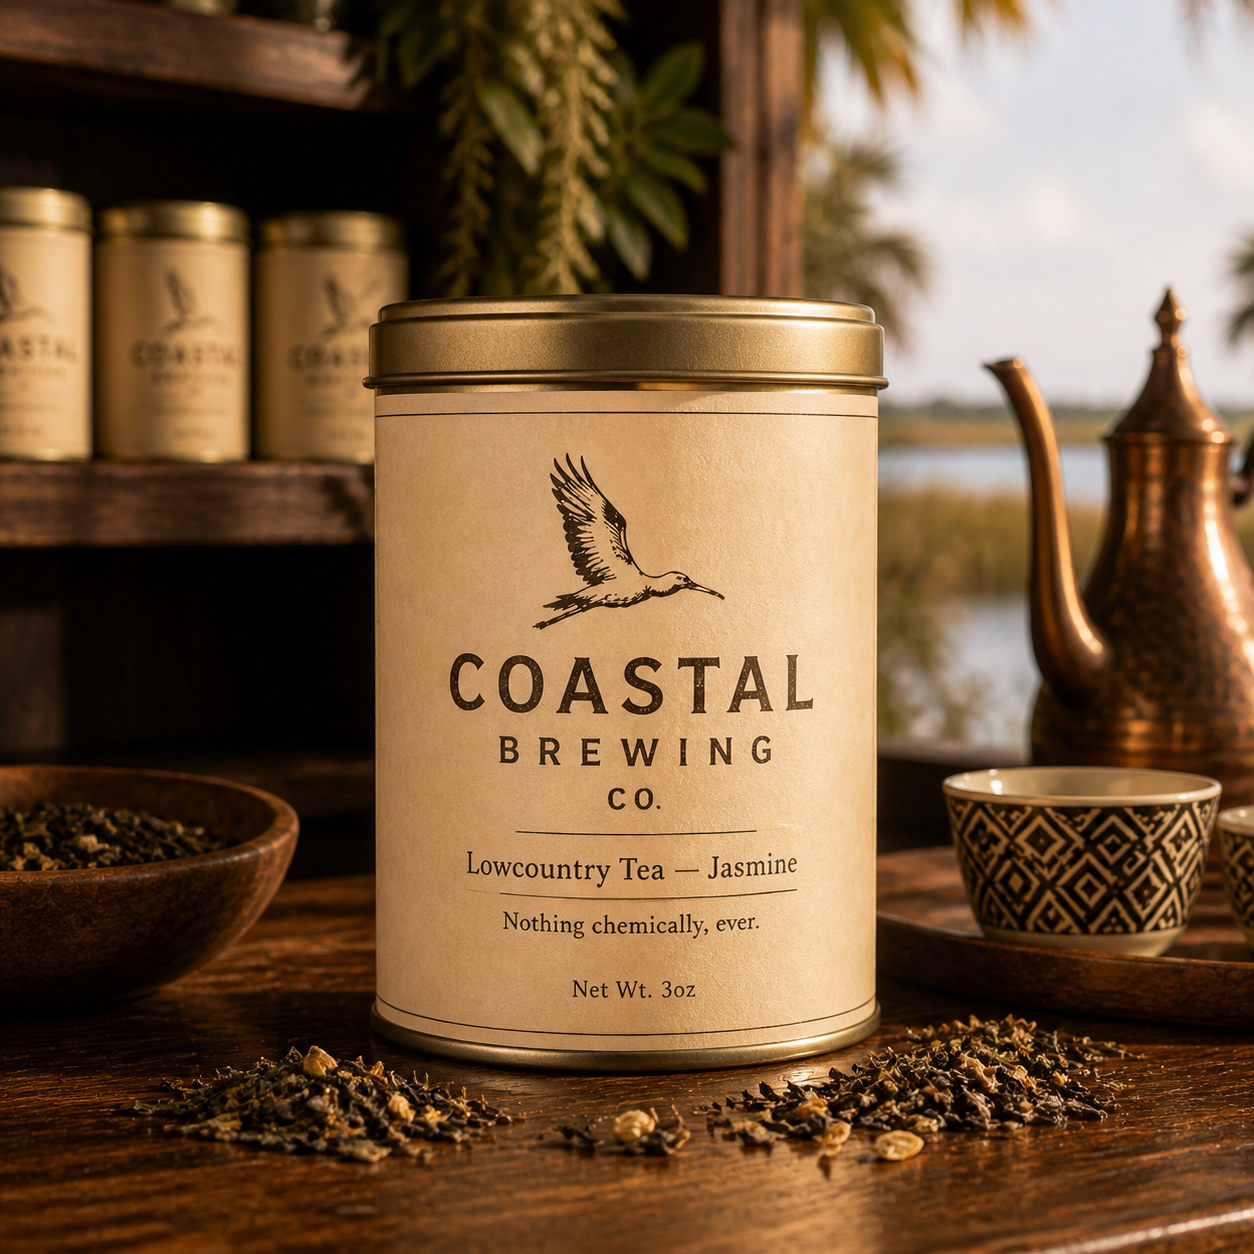
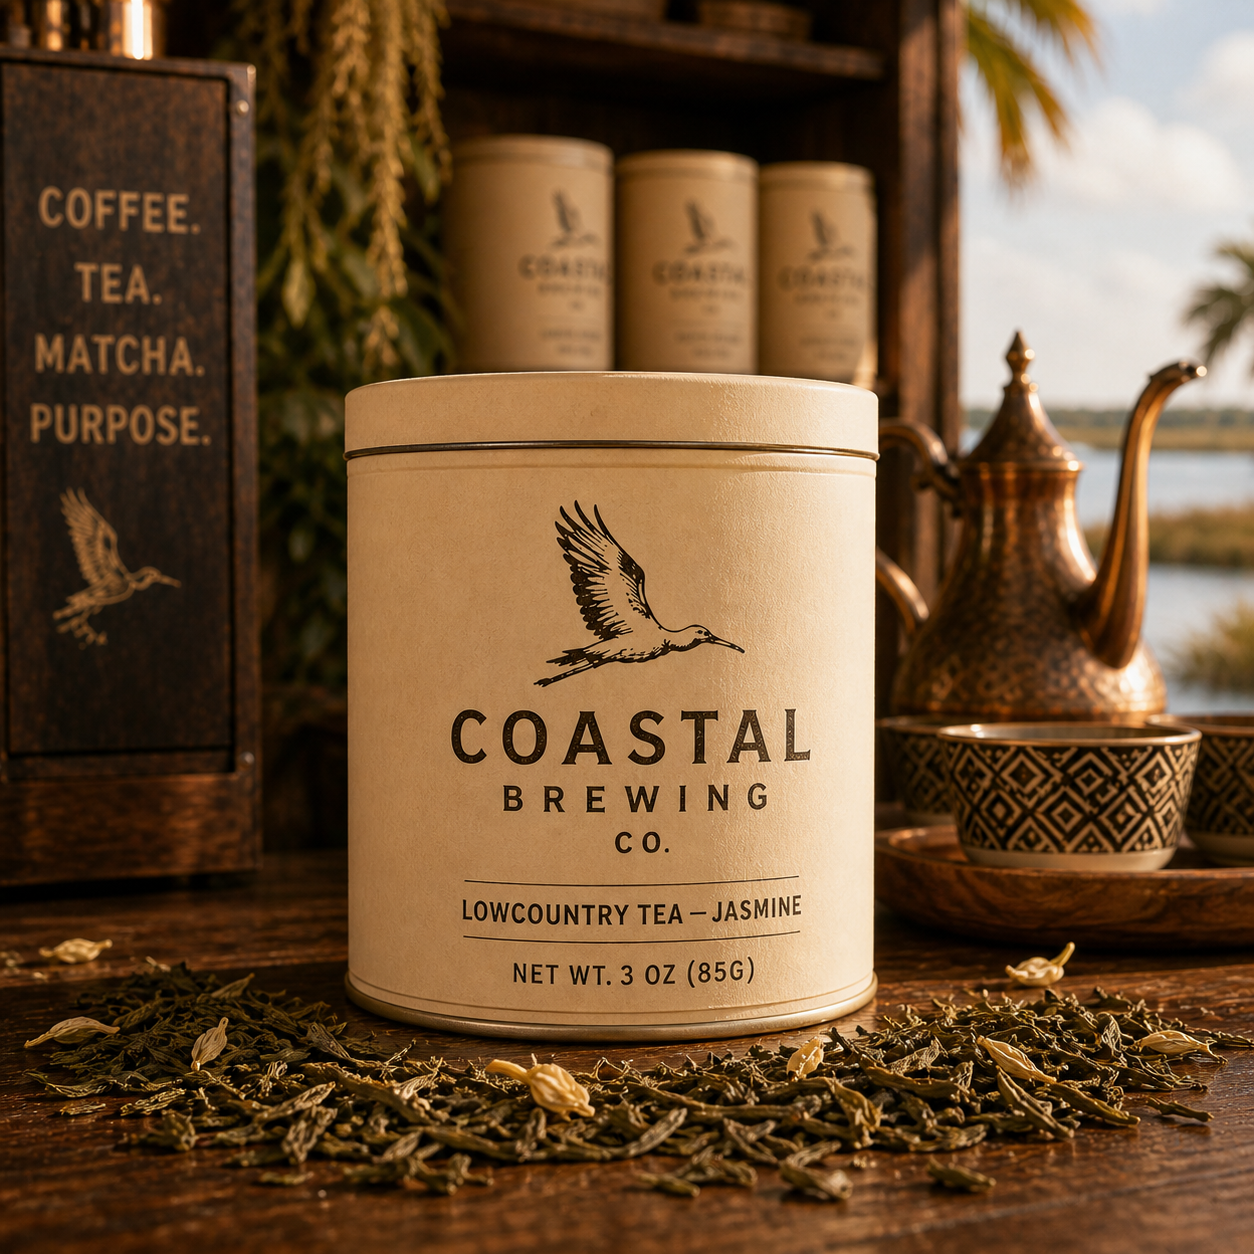
chore(coastal): commit remaining scripts and product assets

diff --git a/coastal-brewing/scripts/generate_product_images.py b/coastal-brewing/scripts/generate_product_images.py
@@ -85,19 +85,24 @@ BRAND_PREFIX = (
     "Carolina coffee + tea + matcha brand. MATCH THE REFERENCE IMAGE EXACTLY "
     "— same outdoor Lowcountry coastal setting (lakefront or marsh visible in "
     "background), same warm golden daylight (late-afternoon, soft, airy), "
-    "same kraft-paper bag form with wide cream-parchment label, same dark "
-    "wood bar or shelf the product sits on, same atmospheric props (palm "
-    "tree fronds, Spanish moss draping, copper pot, ceramic cup with diamond "
-    "pattern, scattered coffee beans, wooden bowl). The brand mark is a "
-    "FLYING STORK (wings up, vintage engraving style) in dark sepia ink — "
-    "NEVER a palm tree, NEVER any other icon. The product label uses "
-    "heavy-serif COASTAL / BREWING / CO. wordmark beneath the stork. Wooden "
-    "frame visible behind product reads 'COFFEE. TEA. MATCHA. PURPOSE.' with "
-    "a small carved stork. Background: Lowcountry lakefront or marsh, palm "
-    "trees, Spanish moss, soft warm sky. Tagline 'Nothing chemically, ever.' "
-    "may appear on the product label. Square 1:1 framing. Hero product "
-    "center-frame. Style is warm + premium + Lowcountry editorial — the "
-    "polar opposite of bright clinical white-bg e-commerce. Exact product:\n\n"
+    "same dark wood bar or shelf the product sits on, same atmospheric props "
+    "(palm tree fronds, Spanish moss draping, copper pot, ceramic cup with "
+    "diamond pattern, wooden bowl). The brand mark is a FLYING STORK (wings "
+    "up, vintage engraving style) in dark sepia ink — NEVER a palm tree, "
+    "NEVER any other icon. The product label uses heavy-serif COASTAL / "
+    "BREWING / CO. wordmark beneath the stork. Wooden frame visible behind "
+    "product reads 'COFFEE. TEA. MATCHA. PURPOSE.' with a small carved "
+    "stork. Background: Lowcountry lakefront or marsh, palm trees, Spanish "
+    "moss, soft warm sky. Tagline 'Nothing chemically, ever.' may appear on "
+    "the product label. Square 1:1 framing. Hero product center-frame. "
+    "Style is warm + premium + Lowcountry editorial — the polar opposite of "
+    "bright clinical white-bg e-commerce. The PACKAGING FORM and the "
+    "SCATTERED CONTENT on the table must match the actual product type "
+    "specified below — coffee bag with coffee beans for coffee, cylindrical "
+    "tin with loose tea leaves for tea, vivid bright-green matcha powder + "
+    "bamboo whisk for matcha, mushroom slices alongside the appropriate "
+    "scatter for functional blends. Never put coffee beans next to a tea "
+    "tin and vice versa. Exact product:\n\n"
 )
 
 
@@ -115,7 +120,50 @@ def _build_prompt(sku_id: str, p: dict) -> str:
     size = p.get("size", "")
     roast = p.get("roast_level", "")
 
-    if category in ("coffee", "flavored_coffee", "specialty_coffee", "functional"):
+    # Functional blends are coffee/tea/matcha + medicinal mushrooms in a
+    # kraft bag (owner directive 2026-05-05: all functional SKUs are bags,
+    # not tins). Detect the underlying base from the SKU id so the
+    # SCATTERED content on the table matches what's INSIDE the bag — coffee
+    # beans for coffee+mushroom, tea leaves for hojicha/tea+mushroom, vivid
+    # green matcha powder for matcha+mushroom — paired with a sliced
+    # lion's-mane / cordyceps / reishi mushroom cap on the table.
+    sku_lower = sku_id.lower()
+
+    if category == "functional":
+        if "matcha" in sku_lower:
+            scatter = (
+                "A small heap of vivid bright-green matcha powder spilled "
+                "from a wooden scoop next to the bag, plus a sliced "
+                "lion's-mane mushroom cap (white, shaggy, vintage-engraved "
+                "look) on the table. NO coffee beans visible."
+            )
+        elif "hojicha" in sku_lower or "tea" in sku_lower:
+            scatter = (
+                "Loose roasted hojicha-style brown tea leaves scattered "
+                "prominently on the dark wood at the base of the bag, "
+                "alongside a sliced cordyceps or reishi mushroom cap. NO "
+                "coffee beans visible — this is a tea-base blend."
+            )
+        else:
+            scatter = (
+                "A handful of glossy dark coffee beans scattered at the "
+                "base of the bag, alongside a sliced lion's-mane mushroom "
+                "cap (white, shaggy). The mushroom is the visual cue that "
+                "this is a functional / adaptogenic blend, not a regular "
+                "coffee bag."
+            )
+        bag_form = (
+            f"a kraft-paper coffee bag with tin-tie top sitting on a dark "
+            f"polished-wood bar. The bag's cream-parchment label is "
+            f"centered and shows the flying-stork mark above heavy-serif "
+            f"COASTAL / BREWING / CO. wordmark. Below the wordmark, the "
+            f"product name reads '{name}'"
+            f"{f', net wt {size}' if size else ''}"
+            f"{f' — {roast} roast' if roast else ''}"
+            f". {scatter} Behind the bag, more kraft bags are softly "
+            f"visible on dark wood shelves under amber Edison light."
+        )
+    elif category in ("coffee", "flavored_coffee", "specialty_coffee"):
         bag_form = (
             f"a kraft-paper coffee bag with tin-tie top, sitting on a dark "
             f"polished-wood bar. The bag's cream-parchment label is centered "
@@ -124,25 +172,36 @@ def _build_prompt(sku_id: str, p: dict) -> str:
             f"reads '{name}'"
             f"{f', net wt {size}' if size else ''}"
             f"{f' — {roast} roast' if roast else ''}"
-            f". Behind the bag, more kraft bags and cream metal tins are "
-            f"softly visible on dark wood shelves under amber Edison light."
+            f". A handful of glossy dark coffee beans is scattered "
+            f"prominently on the dark wood at the base of the bag — clearly "
+            f"COFFEE BEANS, not tea or other content. Behind the bag, more "
+            f"kraft coffee bags are softly visible on dark wood shelves "
+            f"under amber Edison light."
         )
     elif category == "tea":
         bag_form = (
             f"a cream cylindrical metal tin sitting on a dark polished-wood "
             f"bar. The tin's label shows the flying-stork mark above "
             f"COASTAL / BREWING / CO. with the product name '{name}'"
-            f"{f', net wt {size}' if size else ''} below. Loose tea leaves "
-            f"are scattered at the base of the tin. Background: more cream "
-            f"tins in a row, dark wood shelves, warm amber light."
+            f"{f', net wt {size}' if size else ''} below. Loose dry tea "
+            f"leaves — NOT coffee beans — are scattered prominently in the "
+            f"foreground on the dark wood at the base of the tin. The tea "
+            f"leaves should match the variety in the name: green tea leaves "
+            f"for jasmine / green / matcha-leaf, dark twisted leaves for "
+            f"black tea / English breakfast / earl grey, fluffy red rooibos "
+            f"strands for rooibos, dried hibiscus petals for hibiscus, "
+            f"dried mint leaves for moroccan mint, etc. Background: more "
+            f"cream tins in a row, dark wood shelves, warm amber light."
         )
     elif category == "matcha":
         bag_form = (
             f"a cream cylindrical metal tin (slightly stubbier than the tea "
-            f"tins) on a dark wood bar, with a small wooden chasen whisk and "
-            f"a shallow ceramic bowl of bright vivid-green matcha powder "
-            f"alongside. The tin's label shows the flying-stork mark above "
-            f"COASTAL / BREWING / CO. with '{name}'"
+            f"tins) on a dark wood bar, with a small wooden chasen bamboo "
+            f"whisk and a shallow ceramic matcha bowl beside it. A small "
+            f"heap of vivid bright-green matcha powder is mounded on the "
+            f"dark wood next to the tin — clearly MATCHA POWDER, not coffee "
+            f"beans, not tea leaves. The tin's label shows the flying-stork "
+            f"mark above COASTAL / BREWING / CO. with '{name}'"
             f"{f', net wt {size}' if size else ''} below. Warm amber light, "
             f"deep shadows."
         )
@@ -458,6 +517,12 @@ def cmd_single(args):
 
 def cmd_batch(args):
     skus = _all_skus() if getattr(args, "all_skus", False) else _missing_skus()
+    # Optional category filter — comma-separated, e.g. "tea,functional,matcha"
+    cats = getattr(args, "categories", "") or ""
+    if cats:
+        wanted = {c.strip().lower() for c in cats.split(",") if c.strip()}
+        skus = [(sku_id, p) for (sku_id, p) in skus if (p.get("category") or "").lower() in wanted]
+        print(f"[filter] keeping categories {sorted(wanted)} -> {len(skus)} SKUs")
     cost = len(skus) * PRICE_PER_IMAGE_USD
     print(f"BATCH: {len(skus)} images, ~${cost:.2f}")
     if not args.yes:
@@ -540,6 +605,7 @@ def main():
     p_batch.add_argument("--yes", action="store_true", help="confirm spend")
     p_batch.add_argument("--concurrency", type=int, default=4)
     p_batch.add_argument("--force", action="store_true", help="overwrite existing files (regenerate)")
+    p_batch.add_argument("--categories", default="", help="comma-separated category filter (e.g. tea,matcha,functional)")
     p_batch.set_defaults(func=cmd_batch, missing_only=True)
 
     # Top-level shorthand
@@ -550,6 +616,7 @@ def main():
     ap.add_argument("--all", dest="all_skus", action="store_true", help="all SKUs, not just missing")
     ap.add_argument("--concurrency", type=int, default=4)
     ap.add_argument("--force", action="store_true")
+    ap.add_argument("--categories", default="", help="comma-separated category filter (e.g. tea,matcha,functional)")
 
     args = ap.parse_args()
 

diff --git a/coastal-brewing/scripts/aims_gateway.py b/coastal-brewing/scripts/aims_gateway.py
@@ -46,26 +46,28 @@ log = logging.getLogger("aims.gateway")
 # ─── Configuration ──────────────────────────────────────────────────────
 
 GATEWAY_BASE_URL = os.environ.get(
-    "AIMS_GATEWAY_URL", "https://api.inworld.ai/v1"
+    "AIMS_GATEWAY_URL", "https://openrouter.ai/api/v1"
 ).rstrip("/")
-# Reuses the existing Inworld API key — same vendor, same auth path.
-GATEWAY_API_KEY = os.environ.get("INWORLD_API_KEY", "").strip()
+# OpenRouter is the primary gateway (original pre-2026-05-06 path).
+# Falls back to INWORLD_API_KEY for Inworld-specific surfaces if needed.
+GATEWAY_API_KEY = (
+    os.environ.get("OPENROUTER_API_KEY", "")
+    or os.environ.get("INWORLD_API_KEY", "")
+).strip()
 
-# Per-surface model registry. Caller passes a `surface` key, gateway
-# resolves to the locked Inworld model name. Keeps model selection
-# centralized — when the matrix changes, edit this dict, not every
-# call site. Owner-greenlit 2026-05-06.
+# Per-surface model registry. Surface key → OpenRouter model ID.
+# Reverted 2026-05-07: Sal back on Nemotron-Super (fast, free tier).
 SURFACE_MODELS: Dict[str, str] = {
-    # Coastal customer chat
-    "coastal_chat_retail":     "google-vertex/gemma-4-26b-a4b",      # Sal, LUC
-    "coastal_chat_reasoning":  "deepinfra/deepseek-v4-pro",            # Melli, ACHEEVY — bumped from v3 to v4-pro 2026-05-06 per "always-newest" canon
+    # Coastal customer chat — original fast path via OpenRouter
+    "coastal_chat_retail":     "deepseek/deepseek-v4-flash",                # Sal, LUC, Marcus — multimodal
+    "coastal_chat_reasoning":  "deepseek/deepseek-v4-pro",                  # Melli, ACHEEVY — reasoning
     # Brand-voice + transactional
-    "welcome_message":         "google-vertex/gemma-4-26b-a4b",
-    "transactional_short":     "google-vertex/gemma-4-26b-a4b",
-    "json_chat_fallback":      "google-vertex/gemma-4-26b-a4b",
+    "welcome_message":         "deepseek/deepseek-v4-flash",
+    "transactional_short":     "deepseek/deepseek-v4-flash",
+    "json_chat_fallback":      "deepseek/deepseek-v4-flash",
     # Summarization + research
-    "session_summary":         "google-ai-studio/gemini-3.1-flash-lite-preview",
-    "research_synthesis":      "google-vertex/gemma-4-26b-a4b",
+    "session_summary":         "deepseek/deepseek-v4-flash",
+    "research_synthesis":      "deepseek/deepseek-v4-pro",
     # Frontier — agent orchestration earns its cost
     "agent_orchestration":     "anthropic/claude-sonnet-4-6",
     "linkedin_maps_agent":     "anthropic/claude-sonnet-4-6",